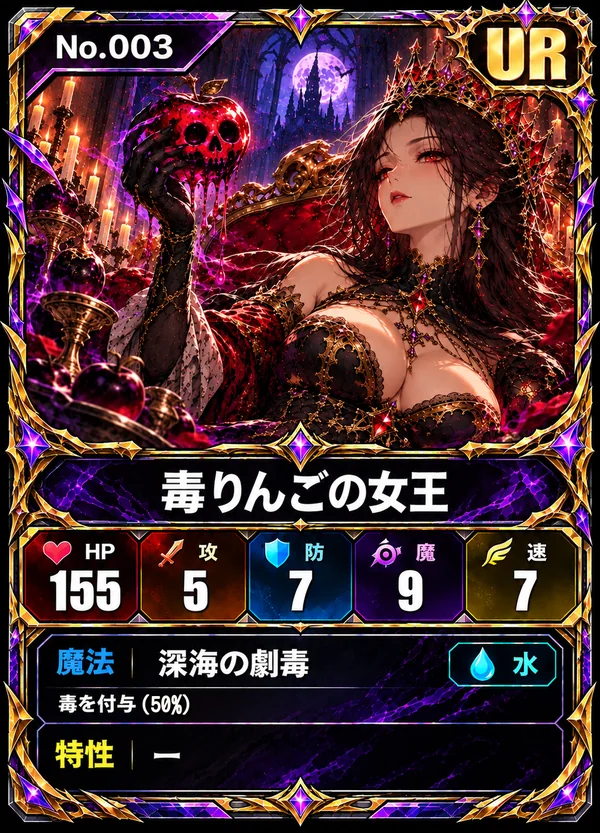
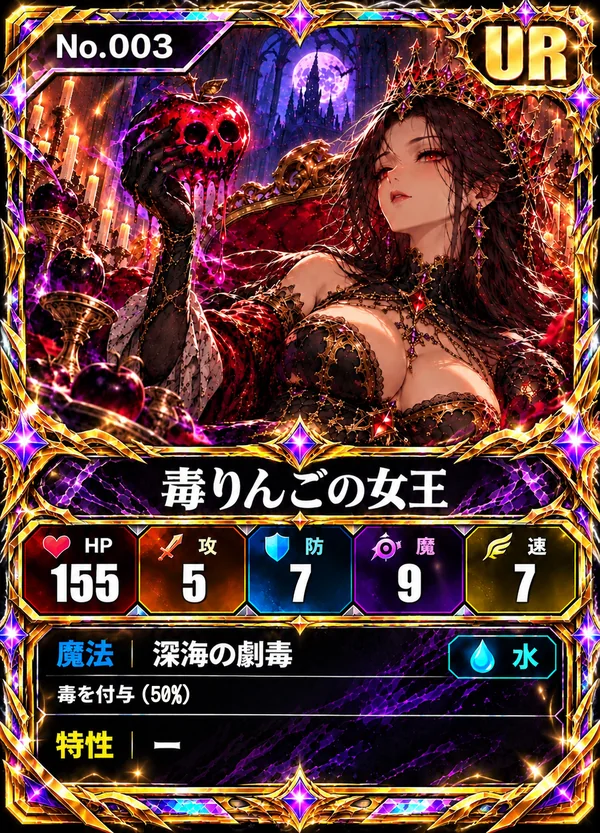
MYTHCLASH: No.003 毒りんごの女王 を新しい絵に差しかえ(前の絵は unused/。(50%) の位置を合わせた)
Claude-Session: https://claude.ai/code/session_01MXithgTc5umkveoyZShZHQ

diff --git a/design/mythclash/make_cards.py b/design/mythclash/make_cards.py
@@ -31,9 +31,9 @@ FIXES = {
         # 20%の弱化は50%の確率(コイントス)で効くので、説明に「（50%）」を足す(企画者「50%いれてほしい」2026-10-27)。消す所はなし(空の所を指定)
         (1040, 1220, 1041, 1221, '(50%)', 694, 1229, 37, 'lm', 1),
     ],
-    # No.003 は 企画者が「毒りんごの女王」と書いた絵に差しかえた(2026-10-27)。前の絵と直し方は cards/unused/
-    # 毒は50%の確率(コイントス)で付くので、説明に「(50%)」を足す(企画者「足して」2026-10-27。これからのカードも同じ)
-    3: [(1040, 1220, 1041, 1221, '(50%)', 248, 1250, 37, 'lm', 1)],
+    # No.003 は 企画者が「毒りんごの女王」と書いた絵に差しかえた(2026-10-27)。2026-10-28 にまた新しい絵に差しかえ(前の絵は cards/unused/)
+    # 毒は50%の確率(コイントス)で付くので、説明に「(50%)」を足す(企画者「足して」2026-10-27。これからのカードも同じ)。新しい絵の「毒を付与」の右に
+    3: [(1040, 1220, 1041, 1221, '(50%)', 248, 1232, 37, 'lm', 1)],
     # No.101 Mr.CLASH(特別なカード): 30%の弱化も50%の確率で効くので「(50%)」を足す
     101: [(1040, 1220, 1041, 1221, '(50%)', 684, 1161, 36, 'lm', 0)],
 }
